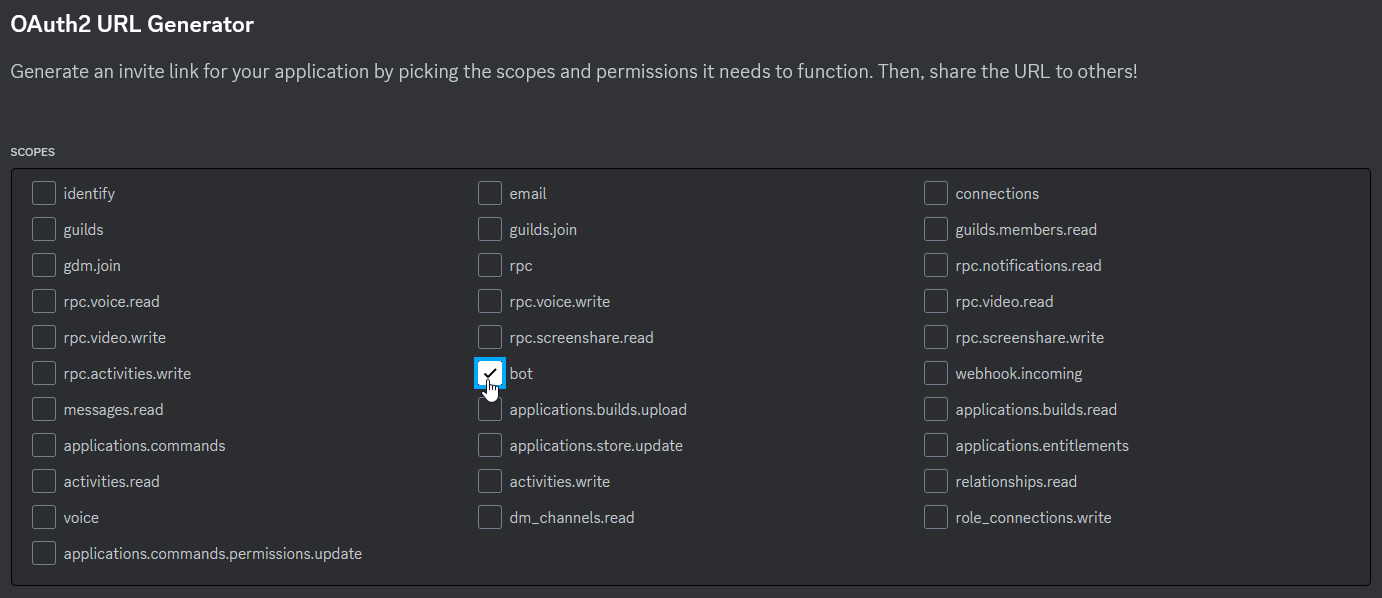
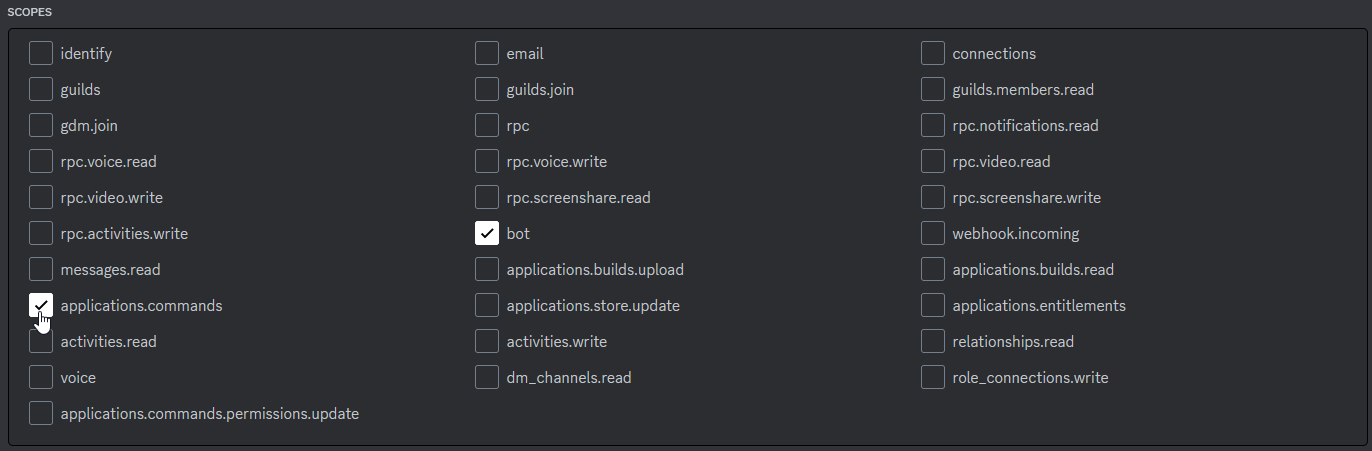
Updated README.md Updated required bot permissions

diff --git a/README.md b/README.md
@@ -40,13 +40,17 @@ Click `OAuth2` then `URL Generator` in the array of buttons on the left.
 
 ![OAuth/URL Generator button](assets/readme-images/oauth-url.png)
 
-Under `Scopes`, tick the `bot` scope.
+Under `Scopes`, tick the `bot` and `applications.commands` scope.
 
 ![Bot Scope Tickbox](assets/readme-images/oauth2-scopes.png)
 
-Another set of tickboxes should appear below. Under `Bot Permissions` and `General Permissions`, tick the `Read Messages/View Channels` permission.
+Another set of tickboxes should appear below. Under `Bot Permissions` and `General Permissions`, tick the following permissions:
 
-![Permissions Tickbox](assets/readme-images/bot-permissions.png)
+```
+Read Messages/View Channels
+Send Messages
+Use Slash Commands
+```
 
 At the very bottom of the page is your bot invite link. Keep this page open. We'll copy this to use later.
 
@@ -58,7 +62,7 @@ Launch VRChat before running OSCCord.
 
 With VRChat open, run OSCCord. It will prompt you for your Discord Token. Copy your token again if you need to, paste it into the console window, then press Enter. 
 
-Return to that page we were just on. Click `Copy` to copy your bot invite link to your clipboard.
+Return to the Discord Developer Portal. Click `Copy` to copy your bot invite link to your clipboard.
 
 ![Copy Link button](assets/readme-images/copy-url.png)
 
